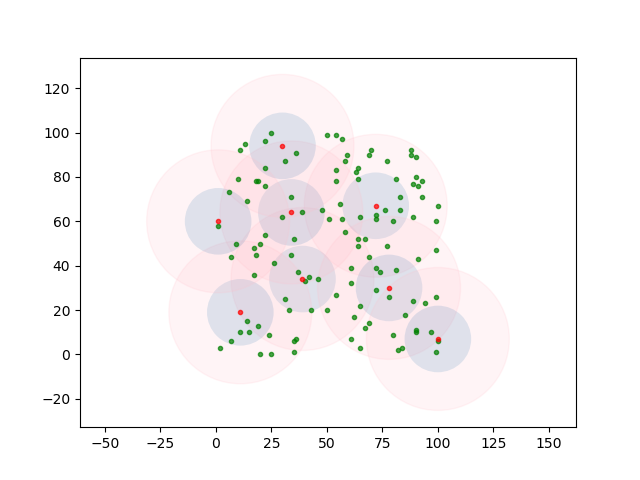
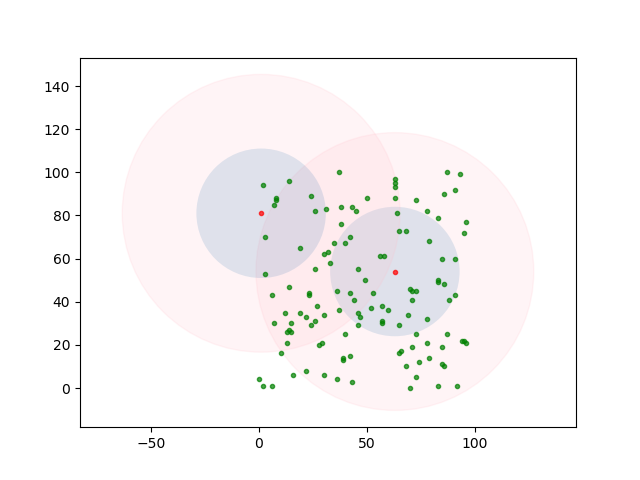
แก้ๆๆ

diff --git a/l_3_(fixing value t and r2).py b/l_3_(fixing value t and r2).py
@@ -184,12 +184,11 @@ def nodes_select(cluster_member, node_member, pkt_control, elec_tran,\
                 cluster_select.append(log)
                 log = []
                 log.append(j)
-                check_c += 1   
+                check_c += 1
+        cluster_select.append(log)
         for k in range(len(cluster_select)):
             log_max = max(b for (a, b) in cluster_select[k])
             max_dis.append([k, log_max])
-        print(max_dis)
-
 
     return node_select, cluster_member, node_member, dead, data_distance, max_dis
 
@@ -305,7 +304,7 @@ def start():
     fs = 10 * (10 ** (-12))  # 10 picoj
     mpf = 0.012 * (10 ** (-12))  # 0.012 picoj
     d_threshold = 87  # **********************
-    r1 = 15 # meter
+    r1 = 30 # meter
     r2 = r1*((2*math.log(10))**(0.5)) # meter
 
     if choose == 0:
